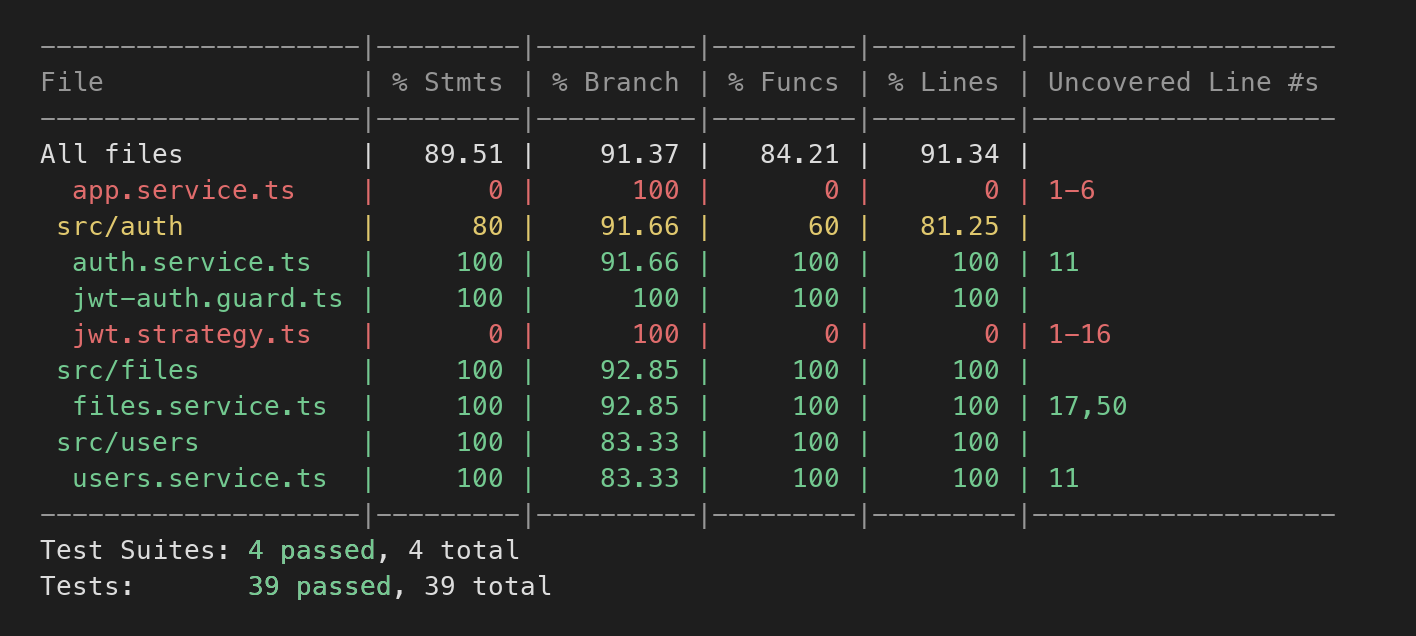
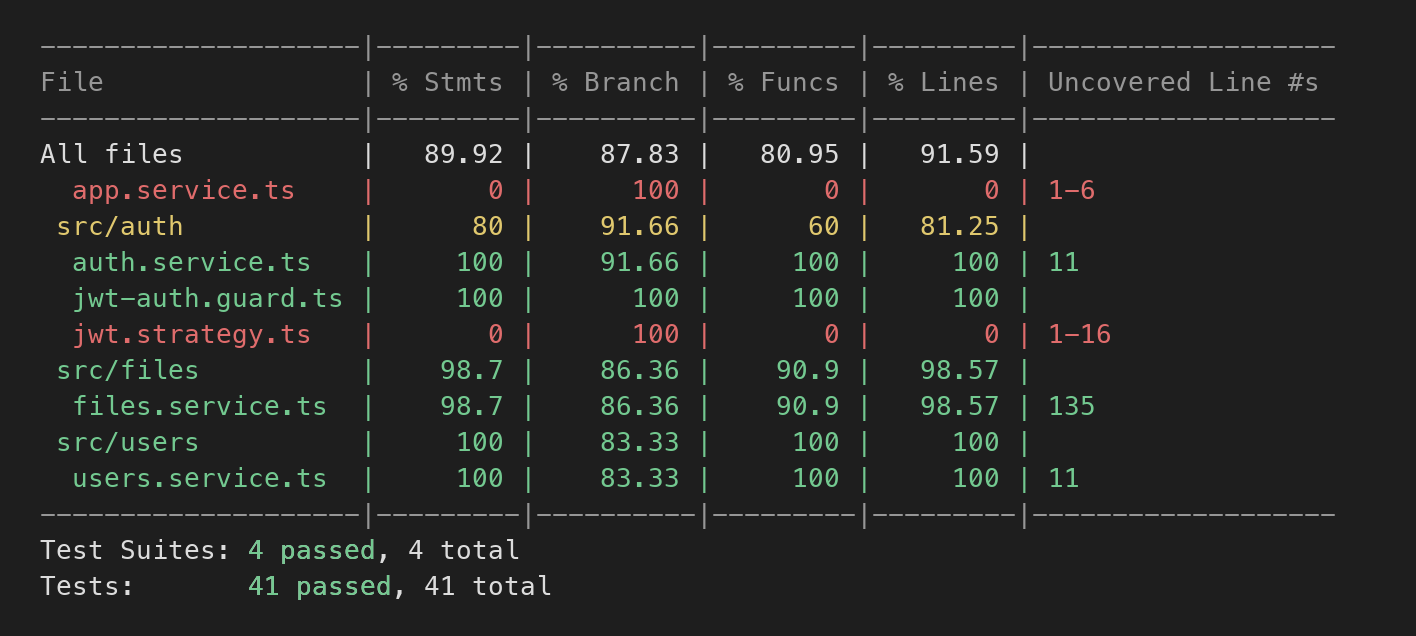
doc : 41 tests (expiration bornée, purge des fichiers expirés) + capture à jour

diff --git a/TESTING.md b/TESTING.md
@@ -33,6 +33,8 @@ dépendre de la base.
 - Suppression (avec et sans fichier physique sur le disque)
 - Suppression d'un fichier inexistant : `NotFoundException`
 - Refus d'un fichier exécutable même renommé (vérification du magic number)
+- Refus d'un fichier trop volumineux (> 1 Go) et d'une durée d'expiration hors de 1-7 jours
+- Purge des fichiers expirés (suppression disque + base)
 
 **Contrôleur de fichiers (`files.controller`)** — la logique de la route publique de téléchargement
 - Lien expiré : `ForbiddenException` (403)
@@ -40,7 +42,7 @@ dépendre de la base.
 - Téléchargement réussi (avec et sans mot de passe)
 - Upload (renvoie le lien), liste et suppression des fichiers
 
-Au total **39 tests**, tous au vert (4 suites).
+Au total **41 tests**, tous au vert (4 suites).
 
 ## Couverture
 